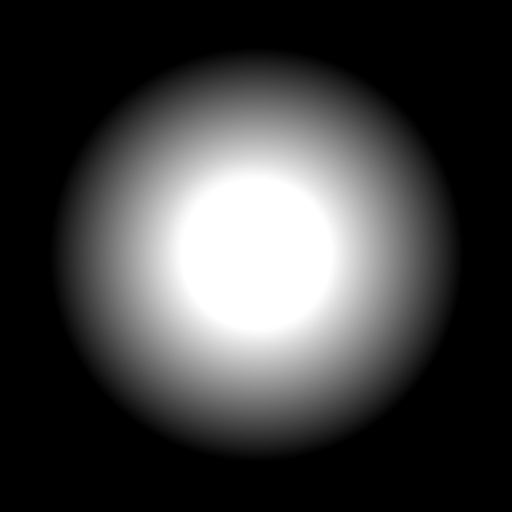
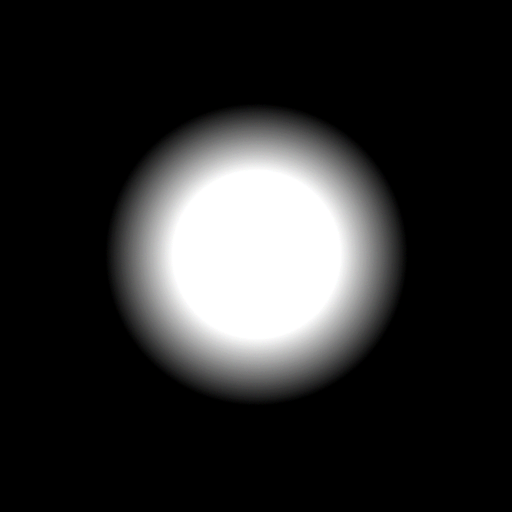
work in progress

diff --git a/src/wid.c b/src/wid.c
@@ -7743,7 +7743,6 @@ static void wid_display (widp w,
         int32_t x, y;
         uint8_t z;
 
-#if 1
         for (z = 0; z < MAP_DEPTH; z++) {
             for (x = maxx - 1; x >= minx; x--) {
                 for (y = miny; y < maxy; y++) {
@@ -7761,185 +7760,155 @@ static void wid_display (widp w,
 
         blit_flush();
 
-#endif
-
         if (w == wid_game_map_client_grid_container) {
-
-            memset(ray_depth, 0, sizeof(ray_depth));
-
+            /*
+             * Light soure.
+             */
             extern int32_t mouse_x;
             extern int32_t mouse_y;
 
             light_pos.x = mouse_x;
             light_pos.y = mouse_y;
 
-            z = MAP_DEPTH_WALL; {
-                for (x = maxx - 1; x >= minx; x--) {
-                    for (y = miny; y < maxy; y++) {
-                        tree_root **tree = w->grid->grid_of_trees[z] + (y * w->grid->width) + x;
-                        widgridnode *node;
+            /*
+             * Blit the light map to a FBO. First generate the right ray lengths.
+             */
+            {
+                memset(ray_depth, 0, sizeof(ray_depth));
 
-                        TREE_WALK_REVERSE_UNSAFE_INLINE(*tree, node,
-                                                        tree_prev_tree_wid_compare_func) {
+                z = MAP_DEPTH_WALL; {
+                    for (x = maxx - 1; x >= minx; x--) {
+                        for (y = miny; y < maxy; y++) {
+                            tree_root **tree = w->grid->grid_of_trees[z] + (y * w->grid->width) + x;
+                            widgridnode *node;
 
-                            wid_display_shadow(node->wid, z);
+                            TREE_WALK_REVERSE_UNSAFE_INLINE(*tree, node,
+                                                            tree_prev_tree_wid_compare_func) {
+
+                                wid_display_shadow(node->wid, z);
+                            }
                         }
                     }
                 }
             }
 
-            // set rendering destination to FBO
-            glBindFramebuffer(GL_FRAMEBUFFER, fbo_id1);
+            /*
+             * Now blit to the FBO, drawing the rays
+             */
+            {
+                glBindFramebuffer(GL_FRAMEBUFFER, fbo_id1);
 
-            // clear buffers
-            glClear(GL_COLOR_BUFFER_BIT | GL_DEPTH_BUFFER_BIT);
-            glClearColor(0,0,0,0);
+                glClear(GL_COLOR_BUFFER_BIT | GL_DEPTH_BUFFER_BIT);
+                glClearColor(0,0,0,0);
 
-            color c;
-            c = WHITE;
-            c.a = 255;
-            glcolor(c);
+                glcolor(WHITE);
 
-if (1)
-        {
-            blit_init();
+                blit_init();
 
-            double r = 0;
-            double dr = RAD_360 / (double)MAX_RAYS;
+                double r = 0;
+                double dr = RAD_360 / (double)MAX_RAYS;
+                int i;
 
-            int i;
-            for (i = 0; i < MAX_RAYS; i++, r += dr) {
+                /*
+                 * Walk the light rays in a circle.
+                 */
+                for (i = 0; i < MAX_RAYS; i++, r += dr) {
+                    double p1_len = ray_depth[i];
+                    double p2_len = ray_depth[(i + 1) % MAX_RAYS];
 
-                double p1_len = ray_depth[i];
-                double p2_len = ray_depth[(i + 1) % MAX_RAYS];
+                    if (p1_len == 0) {
+                        p1_len = 1000;
+                    }
+                    if (p2_len == 0) {
+                        p2_len = 1000;
+                    }
 
-                if (p1_len == 0) {
-                    p1_len = 1000;
+                    /*
+                     * End points of the light ray. Start is the light source.
+                     */
+                    double p1x = light_pos.x + cos(r) * p1_len;
+                    double p1y = light_pos.y + sin(r) * p1_len;
+
+                    double p2x = light_pos.x + cos(r + dr) * p2_len;
+                    double p2y = light_pos.y + sin(r + dr) * p2_len;
+
+                    triangle(light_pos.x, light_pos.y, p1x, p1y, p2x, p2y);
                 }
-                if (p2_len == 0) {
-                    p2_len = 1000;
-                }
 
-//                p1_len -= 20.15;
-//                p2_len -= 20.15;
-
-                double p1x = light_pos.x + cos(r) * p1_len;
-                double p1y = light_pos.y + sin(r) * p1_len;
-
-//                double fudge = 0.10;
-                double fudge = 0.0;
-                double p2x = light_pos.x + cos(r + dr + fudge) * p2_len;
-                double p2y = light_pos.y + sin(r + dr + fudge) * p2_len;
-
-                triangle(light_pos.x, light_pos.y, p1x, p1y, p2x, p2y);
-
-//                line_project(light_pos.x, light_pos.y, p1x, p1y, p2x, p2y);
+                /*
+                 * Flush non shaded triangles.
+                 */
+                blit_flush_triangles();
             }
-
-            blit_flush_triangles();
-        }
-
-#if 0
-c = BLUE;
-glcolor(c);
-blit_init();
-triangle(MAP_WINDOW_WIDTH, 0, 
-         global_config.video_pix_width, 0,
-         global_config.video_pix_width, global_config.video_pix_height);
-triangle(MAP_WINDOW_WIDTH, 0, 
-         MAP_WINDOW_WIDTH, global_config.video_pix_height,
-         global_config.video_pix_width, global_config.video_pix_height);
-blit_flush_triangles();
-#endif
-            // unbind FBO
-            glBindFramebuffer(GL_FRAMEBUFFER, 0);
-
-
-
-
-            // set rendering destination to FBO
-            glBindFramebuffer(GL_FRAMEBUFFER, fbo_id2);
-
-            glBlendFunc(GL_SRC_ALPHA, GL_ONE);
-
-            // clear buffers
-            glClear(GL_COLOR_BUFFER_BIT | GL_DEPTH_BUFFER_BIT);
-            glClearColor(0,0,0,0);
-
-            c = WHITE;
-            glcolor(c);
 
             /*
-             * Blit the light gradient
+             * Now do the same,  using the same FBO to stretch the light 
+             * a bit and make it fuzzy.
              */
-            static texp tex;
-            static int gradient_tex_id;
-            uint32_t tw = global_config.video_pix_width;
-            uint32_t th = global_config.video_pix_width;
+            {
+                blit_init();
 
-            if (!tex) {
-                tex = tex_find("gradient");
-                gradient_tex_id = tex_get_gl_binding(tex);
+                double r = 0;
+                double dr = RAD_360 / (double)MAX_RAYS;
+                int i;
+
+                /*
+                 * Walk the light rays in a circle.
+                 */
+                for (i = 0; i < MAX_RAYS; i++, r += dr) {
+                    double p1_len = ray_depth[i];
+                    double p2_len = ray_depth[(i + 1) % MAX_RAYS];
+
+                    if (p1_len == 0) {
+                        p1_len = 1000;
+                    }
+                    if (p2_len == 0) {
+                        p2_len = 1000;
+                    }
+
+                    /*
+                     * End points of the light ray. Start is the light source.
+                     */
+                    double p1x = light_pos.x + cos(r) * p1_len;
+                    double p1y = light_pos.y + sin(r) * p1_len;
+
+                    double p2x = light_pos.x + cos(r + dr) * p2_len;
+                    double p2y = light_pos.y + sin(r + dr) * p2_len;
+
+                    triangle(light_pos.x, light_pos.y, p1x, p1y, p2x, p2y);
+                }
+
+                /*
+                 * Flush non shaded triangles.
+                 */
+                blit_flush_triangles();
+
+                glBindFramebuffer(GL_FRAMEBUFFER, 0);
             }
 
-            tw = global_config.video_pix_width;
-            th = global_config.video_pix_height;
+            uint32_t tw = global_config.video_pix_width;
+            uint32_t th = global_config.video_pix_height;
+
+            double w = tw * (double)MAP_WINDOW_WIDTH;
+            double h = th;
 
             /*
              * Blit the light map.
              */
-            double w = global_config.video_pix_width * (double)MAP_WINDOW_WIDTH;
-            double h = global_config.video_pix_height;
-            blit_init();
+            {
+                glBindFramebuffer(GL_FRAMEBUFFER, fbo_id2);
+                glClear(GL_COLOR_BUFFER_BIT | GL_DEPTH_BUFFER_BIT);
+                glClearColor(0,0,0,0);
 
-            int soft;
+                glcolor(WHITE);
+                glBlendFunc(GL_SRC_ALPHA, GL_ONE);
 
-            for (soft = 0; soft < 10; soft++) {
-                c = WHITE;
-                c.a = 255 - 21 * soft;
-                glcolor(c);
+                blit_init();
+                blit(fbo_tex_id1, 0.0, 1.0, 1.0, 0.0, 0, 0, w, h);
+                blit_flush();
 
-                int fuzz = soft * 15;
-
-                double new_width = w + (fuzz * 2);
-                double new_height = h + (fuzz * 2);
-                double old_lx = (double) light_pos.x;
-                double old_ly = (double) light_pos.y;
-                double old_lx_pc = old_lx / w;
-                double old_ly_pc = old_ly / h;
-                double new_lx = (new_width * old_lx_pc) - (fuzz );
-                double new_ly = (new_height * old_ly_pc) - (fuzz );
-                double del_lx = old_lx - new_lx;
-                double del_ly = old_ly - new_ly;
-
-                blit(fbo_tex_id1,
-                     0.0, 1.0, 1.0, 0.0,
-                     - fuzz + del_lx,
-                     - fuzz + del_ly,
-                     w + fuzz + del_lx,
-                     h + fuzz + del_ly);
+                glBindFramebuffer(GL_FRAMEBUFFER, 0);
             }
-
-                c = GREEN;
-                c.a = 50;
-                glcolor(c);
-
-                blit(fbo_tex_id1,
-                     0.0, 1.0, 1.0, 0.0,
-                     100, 100, 800, 800);
-                blit_flush();
-
-                c = ORANGE;
-                c.a = 50;
-                glcolor(c);
-
-                blit(fbo_tex_id1,
-                     0.0, 1.0, 1.0, 0.0,
-                     300, 300, 800, 800);
-                blit_flush();
-
-            // unbind FBO
-            glBindFramebuffer(GL_FRAMEBUFFER, 0);
 
 static int s = GL_SRC_COLOR - 2;
 static int j = GL_SRC_COLOR - 2;
@@ -7974,29 +7943,44 @@ b = GL_ONE;
 if (x == 0) {
 CON("%x %x",a,b);
 }
-            glcolor(WHITE);
-            glBlendFunc(GL_SRC_ALPHA, GL_ONE_MINUS_SRC_ALPHA);
+            /*
+             * Blit the light gradient
+             */
+            {
+                static texp tex;
+                static int gradient_tex_id;
 
-            blit_init();
-            blit(gradient_tex_id,
-                 0.0, 1.0, 1.0, 0.0,
-                 light_pos.x - th,
-                 light_pos.y - th,
-                 light_pos.x + th,
-                 light_pos.y + th);
-            blit_flush();
+                if (!tex) {
+                    tex = tex_find("gradient");
+                    gradient_tex_id = tex_get_gl_binding(tex);
+                }
 
-            glBlendFunc(0x0, 0x302);
-//            glBlendFunc(GL_ONE_MINUS_DST_COLOR, GL_ZERO);
+                glBlendFunc(GL_SRC_ALPHA, GL_ONE_MINUS_SRC_ALPHA);
 
-            blit_init();
-            blit(fbo_tex_id2,
-                 0.0, 1.0, 1.0, 0.0,
-                 0, 0, w, h);
-            blit_flush();
+                blit_init();
+                blit(gradient_tex_id,
+                     0.0, 1.0, 1.0, 0.0,
+                     light_pos.x - th,
+                     light_pos.y - th,
+                     light_pos.x + th,
+                     light_pos.y + th);
+                blit_flush();
+            }
 
-            glBlendFunc(GL_SRC_ALPHA, GL_ONE_MINUS_SRC_ALPHA);
+            /*
+             * Blit the light map FBO to mask out what we cannot see.
+             */
+            {
+                glBlendFunc(GL_ZERO, GL_SRC_ALPHA);
 
+                blit_init();
+                blit(fbo_tex_id2,
+                     0.0, 1.0, 1.0, 0.0,
+                     0, 0, w, h);
+                blit_flush();
+
+                glBlendFunc(GL_SRC_ALPHA, GL_ONE_MINUS_SRC_ALPHA);
+            }
         }
     }
     
